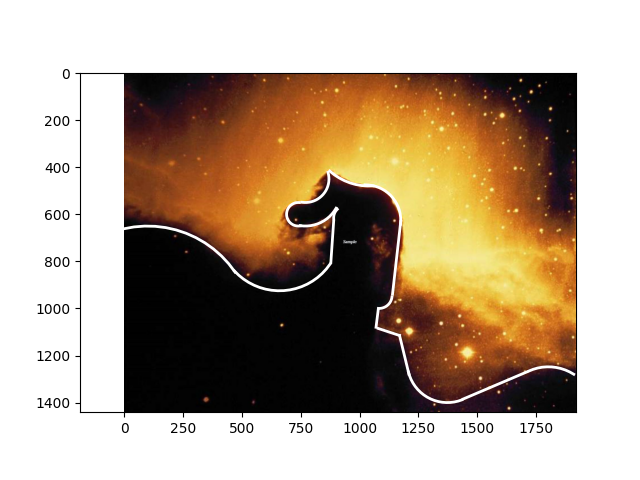
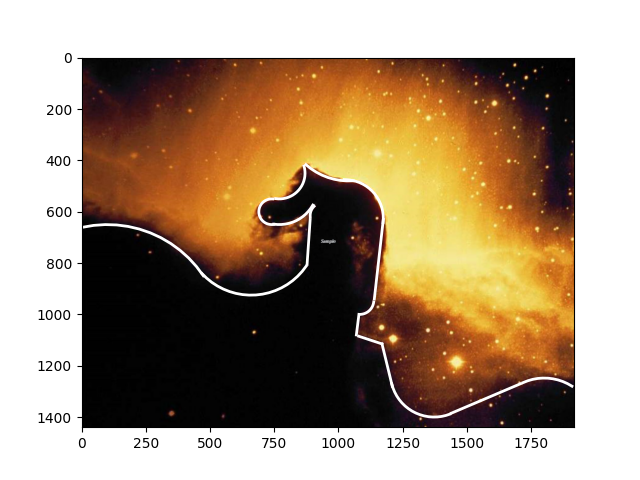
Horse_gotovo

diff --git a/Horse.py b/Horse.py
@@ -18,7 +18,7 @@ def parab(a, b, c, x0, x1, y0):
     return x, y
 
 
-coords = circle(450, 100, 1100, -2, -0.5)
+coords = circle(450, 100, 1100, -1.79, -0.5)
 plt.plot(coords[0], coords[1], lw=2, color='w', zorder=1)
 
 
